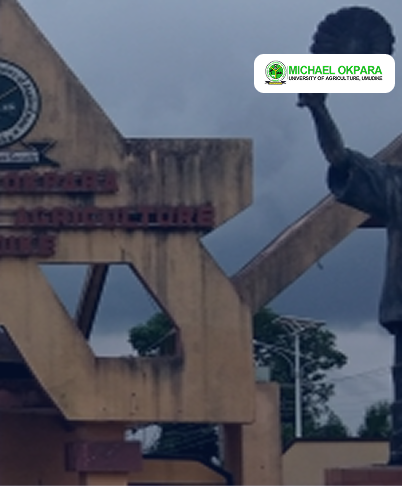
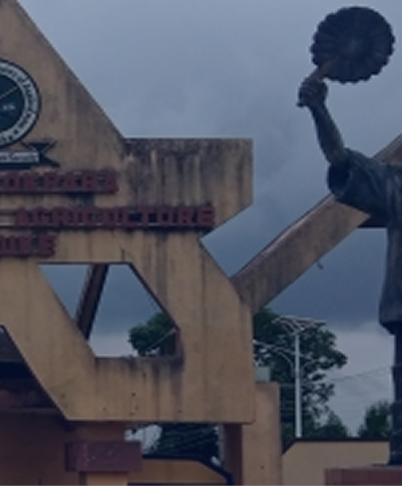
minor edits on login screen

Changed region(s): [[0.6269, 0.0926, 0.9851, 0.216]]

diff --git a/src/app/(auth)/login.tsx b/src/app/(auth)/login.tsx
@@ -25,6 +25,11 @@ function Login() {
                     <Text className='z-10 w-[300px] text-5xl/[50px] absolute text-white bottom-10 left-4 font-black'>
                         A Citadel For Learning
                     </Text>
+                    <View className='z-10 absolute text-white flex justify-center top-safe right-4 bg-white px-3 rounded-lg h-[39px]'>
+                        <Image
+                            source={require('@/assets/images/logo-transparent-label.png')}
+                        />
+                    </View>
                     <Image
                         source={require('@/assets/auth/login-img-head.png')}
                         className='w-full h-full'
